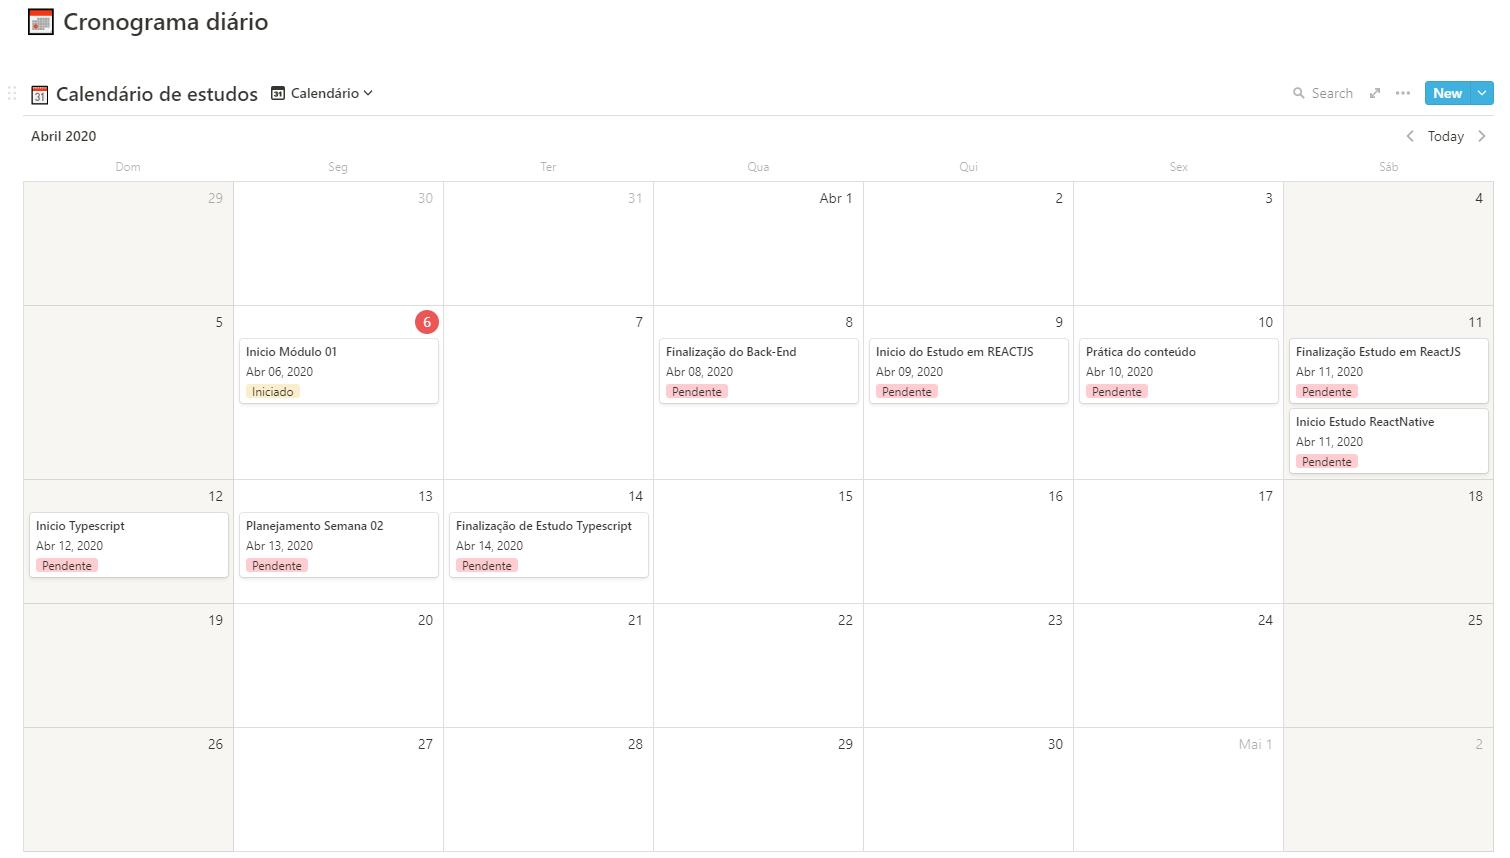
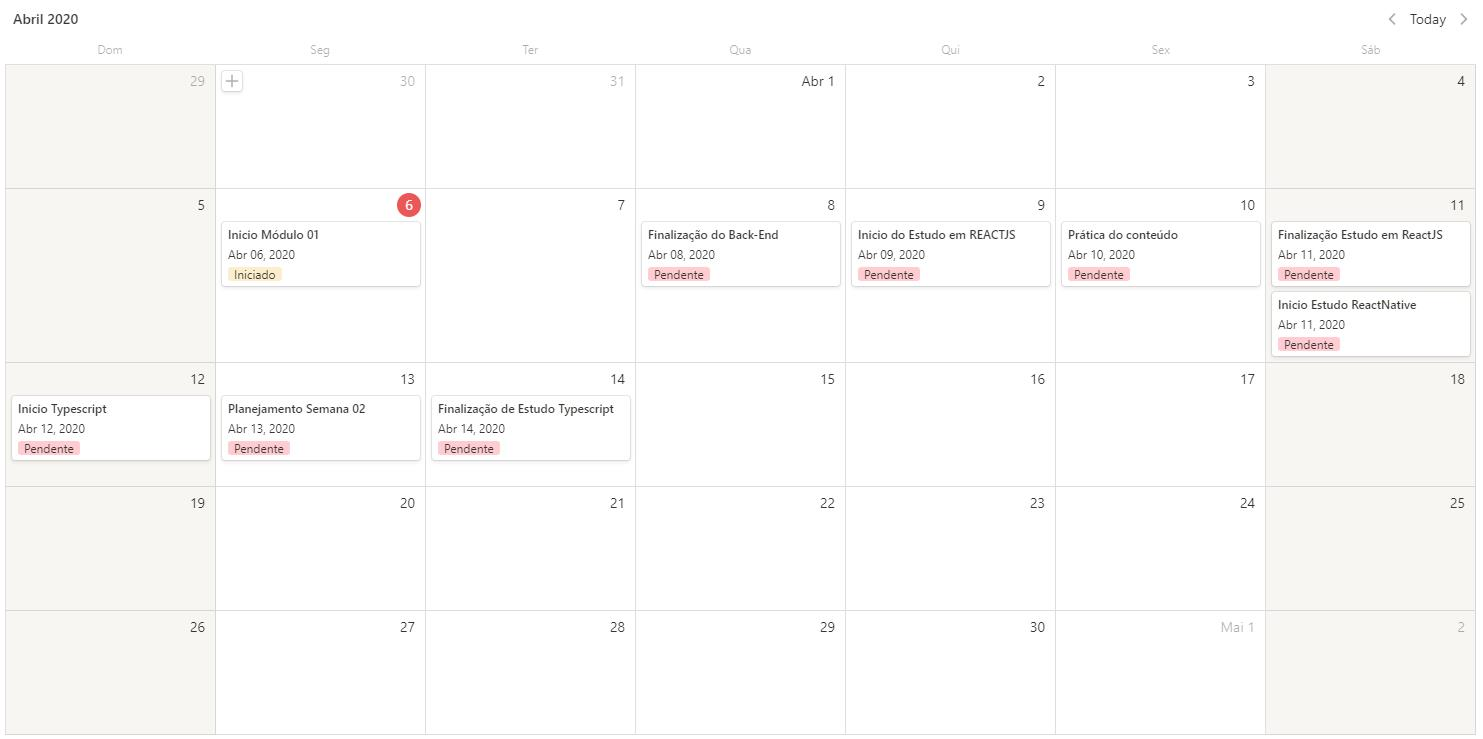
Fixed name conventions

diff --git a/desafio-01-cronograma/README.md b/desafio-01-cronograma/README.md
@@ -10,11 +10,11 @@
 
 
 <p align="center">
-  <img width="80%" src="./assets/weekly.png">
+  <img width="100%" src="./assets/weekly.jpg">
 </p>
 
 ## 📅 Cronograma diário
 
 <p align="center">
-  <img width="80%" src="./assets/daily.jpeg">
+  <img width="100%" src="./assets/daily.jpg">
 </p>
